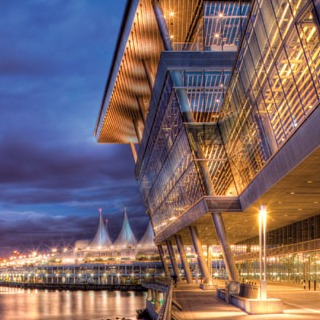
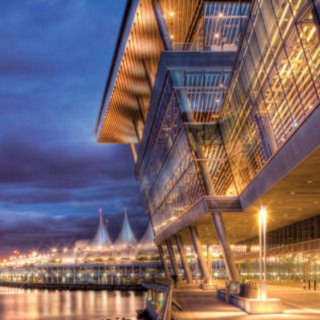
Updated site with new files and changes

diff --git a/index.html b/index.html
@@ -503,7 +503,7 @@ Some of my other research related activities over the years are shown below.
 
 <TABLE cellspacing="10">
 
-<TR> <TD align="left"><A HREF="https://cardiffvisualcomputing.github.io/2026/"> <img src="VisualComputingLogo.jpg" alt="logo" height="100"></A> </TD>
+<TR> <TD align="left"><A HREF="https://cardiffvisualcomputing.github.io/2026/"> <img src="VisualComputingLogo.gif" alt="logo" height="100"></A> </TD>
      <TD>
 	 <p style="font-size:140%;margin-bottom:0.5em">Cardiff Image and Vision Computing Workshop</P>
 		<font size="+2">T</font>he
@@ -555,7 +555,7 @@ Some of my other research related activities over the years are shown below.
 </TD>
 </TR>
 
-<TR> <TD align="left"><A HREF="https://cardiffvisualcomputing.github.io/2025/"> <img src="VisualComputingLogo.jpg" alt="logo" height="100"></A> </TD>
+<TR> <TD align="left"><A HREF="https://cardiffvisualcomputing.github.io/2025/"> <img src="VisualComputingLogo.gif" alt="logo" height="100"></A> </TD>
      <TD>
 	 <p style="font-size:140%;margin-bottom:0.5em">Cardiff Image and Vision Computing Workshop</P>
 		<font size="+2">T</font>he
@@ -578,7 +578,7 @@ Some of my other research related activities over the years are shown below.
 </TD>
 </TR>
 
-<TR> <TD align="left"><A HREF="https://dmcv.sjtu.edu.cn/cadgraphics2023/"> <img src="CADgraphics.png" alt="CAD Graphics" height="100"></A> </TD>
+<TR> <TD align="left"><A HREF="https://dmcv.sjtu.edu.cn/cadgraphics2023/"> <img src="CADgraphics.gif" alt="CAD Graphics" height="100"></A> </TD>
 	 <TD> 
 	 <p style="font-size:140%;margin-bottom:0.5em">CCF CAD/Graphics</P>
 		<font size="+2">I</font> co-organised the
@@ -606,7 +606,7 @@ Some of my other research related activities over the years are shown below.
 </TR>
 
 <TR> <TD align="left">
-<TR> <TD align="left"><A HREF="http://iccvm.org/2022/index.htm"> <img src="cvm2002.png" alt="CVM2022" height="100"></A> </TD>
+<TR> <TD align="left"><A HREF="http://iccvm.org/2022/index.htm"> <img src="cvm2002.gif" alt="CVM2022" height="100"></A> </TD>
 	 <TD> 
 	 <p style="font-size:140%;margin-bottom:0.5em">Computational Visual Media</P>
 		<font size="+2">I</font> co-organised the 
@@ -660,7 +660,7 @@ Some of my other research related activities over the years are shown below.
 </TD>
 </TR>
 
-<TR> <TD align="left"> <A HREF="https://www.springer.com/gp/book/9783030440695"> <IMG SRC="3Dcover.jpg" alt="cover" HEIGHT="100"></A> </TD>
+<TR> <TD align="left"> <A HREF="https://www.springer.com/gp/book/9783030440695"> <IMG SRC="3Dcover.gif" alt="cover" HEIGHT="100"></A> </TD>
      <TD> 
 	<p style="font-size:140%;margin-bottom:0.5em">3D Imaging, Analysis and Applications (2nd edition)</P>
 		<font size="+2">A</font>long with
@@ -737,7 +737,7 @@ Some of my other research related activities over the years are shown below.
 </TD>
 </TR>
 
-<TR> <TD align="left"><A HREF="https://bmvc2019.org/"> <img src="bmvc2019.png" alt="BMVC2019" height="100" width="100"></A> </TD> 
+<TR> <TD align="left"><A HREF="https://bmvc2019.org/"> <img src="bmvc2019.gif" alt="BMVC2019" height="100" width="100"></A> </TD> 
      <TD> 
 	<p style="font-size:140%;margin-bottom:0.5em">British Machine Vision Conference</P>
 		<font size="+2">I</font>
@@ -748,7 +748,7 @@ Some of my other research related activities over the years are shown below.
 </TD>
 </TR>
 
-<TR> <TD align="left"><A HREF="https://rosinpl.github.io/IVF2019/"> <img src="IVF2019.png" alt="IVF2019" height="100"></A> </TD> 
+<TR> <TD align="left"><A HREF="https://rosinpl.github.io/IVF2019/"> <img src="IVF2019.jpg" alt="IVF2019" height="100"></A> </TD> 
      <TD> 
 	<p style="font-size:140%;margin-bottom:0.5em">Image and Video Forensics</P>
 		<font size="+2">W</font>ith 
@@ -953,7 +953,7 @@ Some of my other research related activities over the years are shown below.
 </TD>
 </TR>
 
-<TR> <TD align="left"> <A HREF="https://www.springer.com/us/book/9783319064307"> <IMG SRC="CAcover.jpg" alt="cover" HEIGHT="100"></A> </TD>
+<TR> <TD align="left"> <A HREF="https://www.springer.com/us/book/9783319064307"> <IMG SRC="CAcover.gif" alt="cover" HEIGHT="100"></A> </TD>
      <TD> 
 	<p style="font-size:140%;margin-bottom:0.5em">Cellular Automata in Image Processing and Geometry</P>
 		<font size="+2">A</font>long with Andy Adamatzky and Xianfang Sun I edited a book on
@@ -1738,7 +1738,7 @@ shape complexity
 </TR>
 
 <TR> <TD align="left">
-    <A HREF="https://huihuangzhao.github.io"><img src="solder.png" alt="solder" height="100"></A> </TD>
+    <A HREF="https://huihuangzhao.github.io"><img src="solder.jpg" alt="solder" height="100"></A> </TD>
     </TD>
      <TD>
         <font size="+2">T</font>he solder joint image dataset from our
